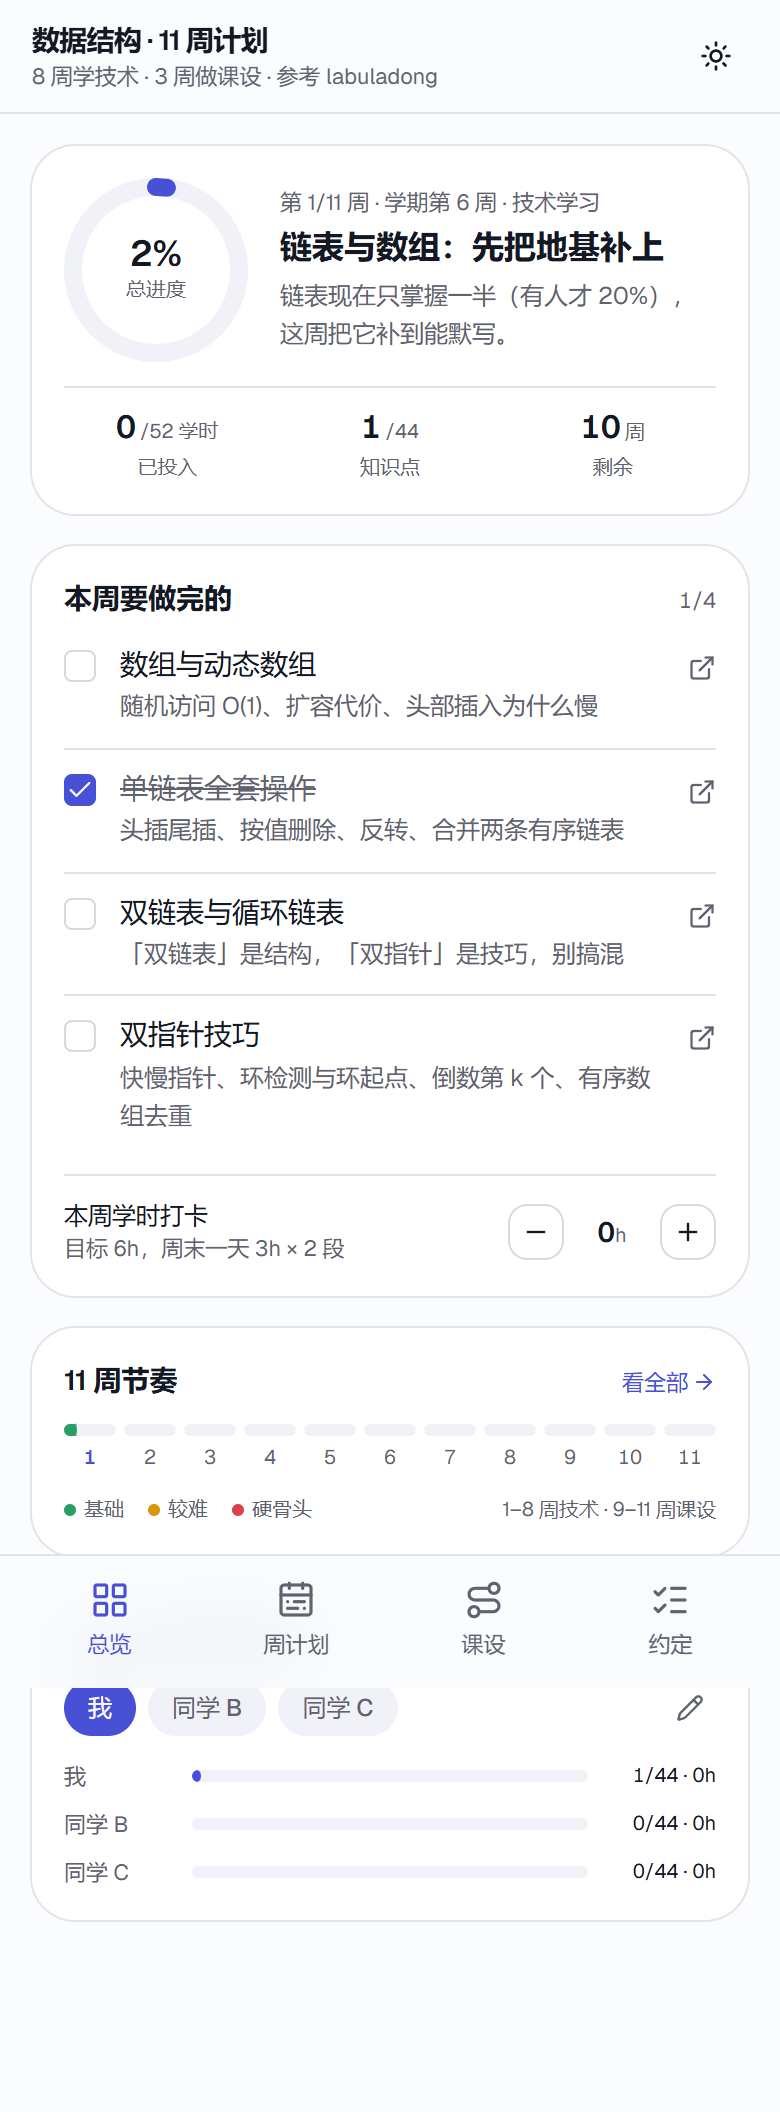
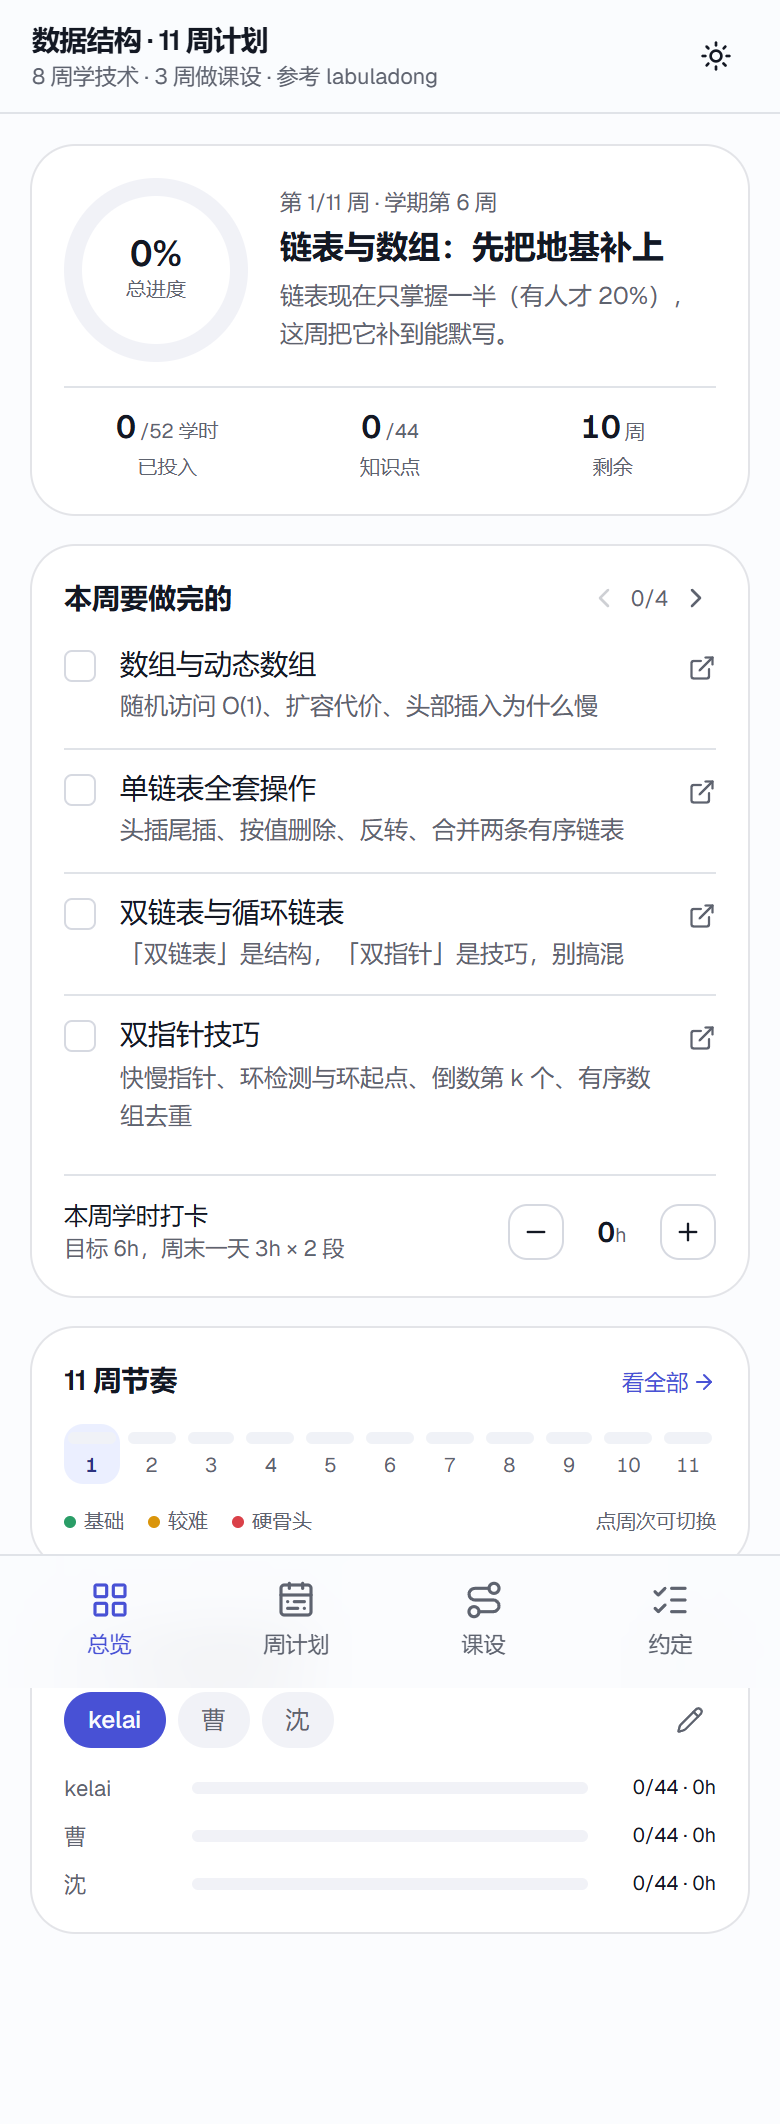
总览页支持切换周次（点周次条 / 左右箭头），成员默认名改为 kelai、曹、沈

diff --git a/apps/web/src/routes/index.tsx b/apps/web/src/routes/index.tsx
@@ -1,5 +1,12 @@
 import { Link, createFileRoute } from "@tanstack/react-router";
-import { ArrowRight, Minus, Plus } from "lucide-react";
+import {
+  ArrowRight,
+  ChevronLeft,
+  ChevronRight,
+  Minus,
+  Plus,
+} from "lucide-react";
+import { useState } from "react";
 
 import { MemberSwitcher } from "#src/components/member-switcher.tsx";
 import { MiniBar } from "#src/components/mini-bar.tsx";
@@ -51,14 +58,32 @@ const OverviewPage = () => {
   const state = useAppState();
   const memberId = state.activeMemberId;
   const currentWeek = weekOfDate(state.startDate);
-  const plan = getWeek(currentWeek);
+  const [selectedWeek, setSelectedWeek] = useState(currentWeek);
+  const plan = getWeek(selectedWeek);
   const stats = memberStats(state, memberId);
   const doneSet = new Set(state.done[memberId]);
-  const weekHours = state.hours[memberId]?.[String(currentWeek)] ?? 0;
+  const weekHours = state.hours[memberId]?.[String(selectedWeek)] ?? 0;
+  const isCurrent = selectedWeek === currentWeek;
 
   const finishedThisWeek = plan.topics.filter((topic) =>
     doneSet.has(topic.id)
   ).length;
+
+  const goWeek = (week: number) => {
+    setSelectedWeek(Math.min(Math.max(week, 1), PLAN.totalWeeks));
+  };
+
+  const weekLabelClass = (week: number, selected: boolean) => {
+    if (selected) {
+      return "text-accent-foreground font-semibold";
+    }
+
+    if (week === currentWeek) {
+      return "text-primary font-semibold";
+    }
+
+    return "text-muted-foreground";
+  };
 
   return (
     <div className="grid gap-4">
@@ -73,11 +98,23 @@ const OverviewPage = () => {
             </span>
           </ProgressRing>
           <div className="min-w-0 flex-1">
-            <p className="text-muted-foreground text-mini">
-              第 {currentWeek}/{PLAN.totalWeeks} 周 · 学期第{" "}
-              {PLAN.termStartWeek + currentWeek - 1} 周 ·{" "}
-              {plan.phase === "tech" ? "技术学习" : "课设"}
-            </p>
+            <div className="flex items-center gap-1.5">
+              <p className="text-muted-foreground text-mini">
+                第 {selectedWeek}/{PLAN.totalWeeks} 周 · 学期第{" "}
+                {PLAN.termStartWeek + selectedWeek - 1} 周
+              </p>
+              {isCurrent ? null : (
+                <button
+                  className="bg-accent text-accent-foreground text-micro shrink-0 cursor-pointer rounded-full px-1.5 py-0.5 font-medium"
+                  onClick={() => {
+                    setSelectedWeek(currentWeek);
+                  }}
+                  type="button"
+                >
+                  回到本周
+                </button>
+              )}
+            </div>
             <p className="mt-1 text-base leading-snug font-semibold text-balance">
               {plan.title}
             </p>
@@ -107,11 +144,37 @@ const OverviewPage = () => {
       </section>
 
       <section className="bg-card ring-foreground/10 rounded-2xl p-4 ring-1">
-        <div className="flex items-baseline justify-between">
-          <h2 className="text-sm font-semibold">本周要做完的</h2>
-          <span className="text-muted-foreground text-mini tabular-nums">
-            {finishedThisWeek}/{plan.topics.length}
-          </span>
+        <div className="flex items-center justify-between">
+          <h2 className="text-sm font-semibold">
+            {isCurrent ? "本周要做完的" : `第 ${selectedWeek} 周要做完的`}
+          </h2>
+          <div className="flex items-center gap-1">
+            <button
+              aria-label="上一周"
+              className="text-muted-foreground hover:text-foreground cursor-pointer p-0.5 disabled:cursor-not-allowed disabled:opacity-30"
+              disabled={selectedWeek <= 1}
+              onClick={() => {
+                goWeek(selectedWeek - 1);
+              }}
+              type="button"
+            >
+              <ChevronLeft className="size-4" />
+            </button>
+            <span className="text-muted-foreground text-mini tabular-nums">
+              {finishedThisWeek}/{plan.topics.length}
+            </span>
+            <button
+              aria-label="下一周"
+              className="text-muted-foreground hover:text-foreground cursor-pointer p-0.5 disabled:cursor-not-allowed disabled:opacity-30"
+              disabled={selectedWeek >= PLAN.totalWeeks}
+              onClick={() => {
+                goWeek(selectedWeek + 1);
+              }}
+              type="button"
+            >
+              <ChevronRight className="size-4" />
+            </button>
+          </div>
         </div>
         <div className="divide-border mt-1 divide-y">
           {plan.topics.map((topic) => (
@@ -125,7 +188,9 @@ const OverviewPage = () => {
 
         <div className="mt-2 flex items-center justify-between border-t pt-3">
           <div>
-            <p className="text-xs font-medium">本周学时打卡</p>
+            <p className="text-xs font-medium">
+              {isCurrent ? "本周学时打卡" : `第 ${selectedWeek} 周学时打卡`}
+            </p>
             <p className="text-muted-foreground text-mini">
               目标 {plan.hours > 0 ? `${plan.hours}h` : "按课设进度"}，周末一天
               3h × 2 段
@@ -136,7 +201,7 @@ const OverviewPage = () => {
               aria-label="减 1 小时"
               className="border-input hover:bg-muted cursor-pointer rounded-md border p-1.5 transition-colors"
               onClick={() => {
-                setWeekHours(currentWeek, weekHours - 1);
+                setWeekHours(selectedWeek, weekHours - 1);
               }}
               type="button"
             >
@@ -152,7 +217,7 @@ const OverviewPage = () => {
               aria-label="加 1 小时"
               className="border-input hover:bg-muted cursor-pointer rounded-md border p-1.5 transition-colors"
               onClick={() => {
-                setWeekHours(currentWeek, weekHours + 1);
+                setWeekHours(selectedWeek, weekHours + 1);
               }}
               type="button"
             >
@@ -172,7 +237,7 @@ const OverviewPage = () => {
             看全部 <ArrowRight className="size-3" />
           </Link>
         </div>
-        <div className="mt-3 grid grid-cols-11 gap-1">
+        <div className="mt-3 grid grid-cols-11 gap-0.5">
           {WEEKS.map((item) => {
             const total = item.topics.length;
 
@@ -181,20 +246,28 @@ const OverviewPage = () => {
             ).length;
 
             const ratio = total === 0 ? 0 : finished / total;
+            const selected = item.week === selectedWeek;
 
             return (
-              <div className="flex flex-col items-center gap-1" key={item.week}>
+              <button
+                aria-label={`第 ${item.week} 周`}
+                aria-pressed={selected}
+                className={`flex cursor-pointer flex-col items-center gap-1 rounded-md px-0.5 pt-1 pb-0.5 transition-colors ${
+                  selected ? "bg-accent" : "hover:bg-muted"
+                }`}
+                key={item.week}
+                onClick={() => {
+                  setSelectedWeek(item.week);
+                }}
+                type="button"
+              >
                 <MiniBar ratio={ratio} tone={BAR_FILL[item.level]} />
                 <span
-                  className={`text-micro tabular-nums ${
-                    item.week === currentWeek
-                      ? "text-primary font-semibold"
-                      : "text-muted-foreground"
-                  }`}
+                  className={`text-micro tabular-nums ${weekLabelClass(item.week, selected)}`}
                 >
                   {item.week}
                 </span>
-              </div>
+              </button>
             );
           })}
         </div>
@@ -205,7 +278,7 @@ const OverviewPage = () => {
               {LEVEL_META[level].label}
             </span>
           ))}
-          <span className="ml-auto">1–8 周技术 · 9–11 周课设</span>
+          <span className="ml-auto">点周次可切换</span>
         </div>
       </section>
 

diff --git a/apps/web/src/lib/store.ts b/apps/web/src/lib/store.ts
@@ -21,9 +21,9 @@ interface AppState {
 const PREFIX = "ds-plan:v1:";
 
 const DEFAULT_MEMBERS: readonly Member[] = [
-  { id: "m1", name: "我" },
-  { id: "m2", name: "同学 B" },
-  { id: "m3", name: "同学 C" },
+  { id: "m1", name: "kelai" },
+  { id: "m2", name: "曹" },
+  { id: "m3", name: "沈" },
 ];
 
 const DEFAULT_STATE: AppState = {
